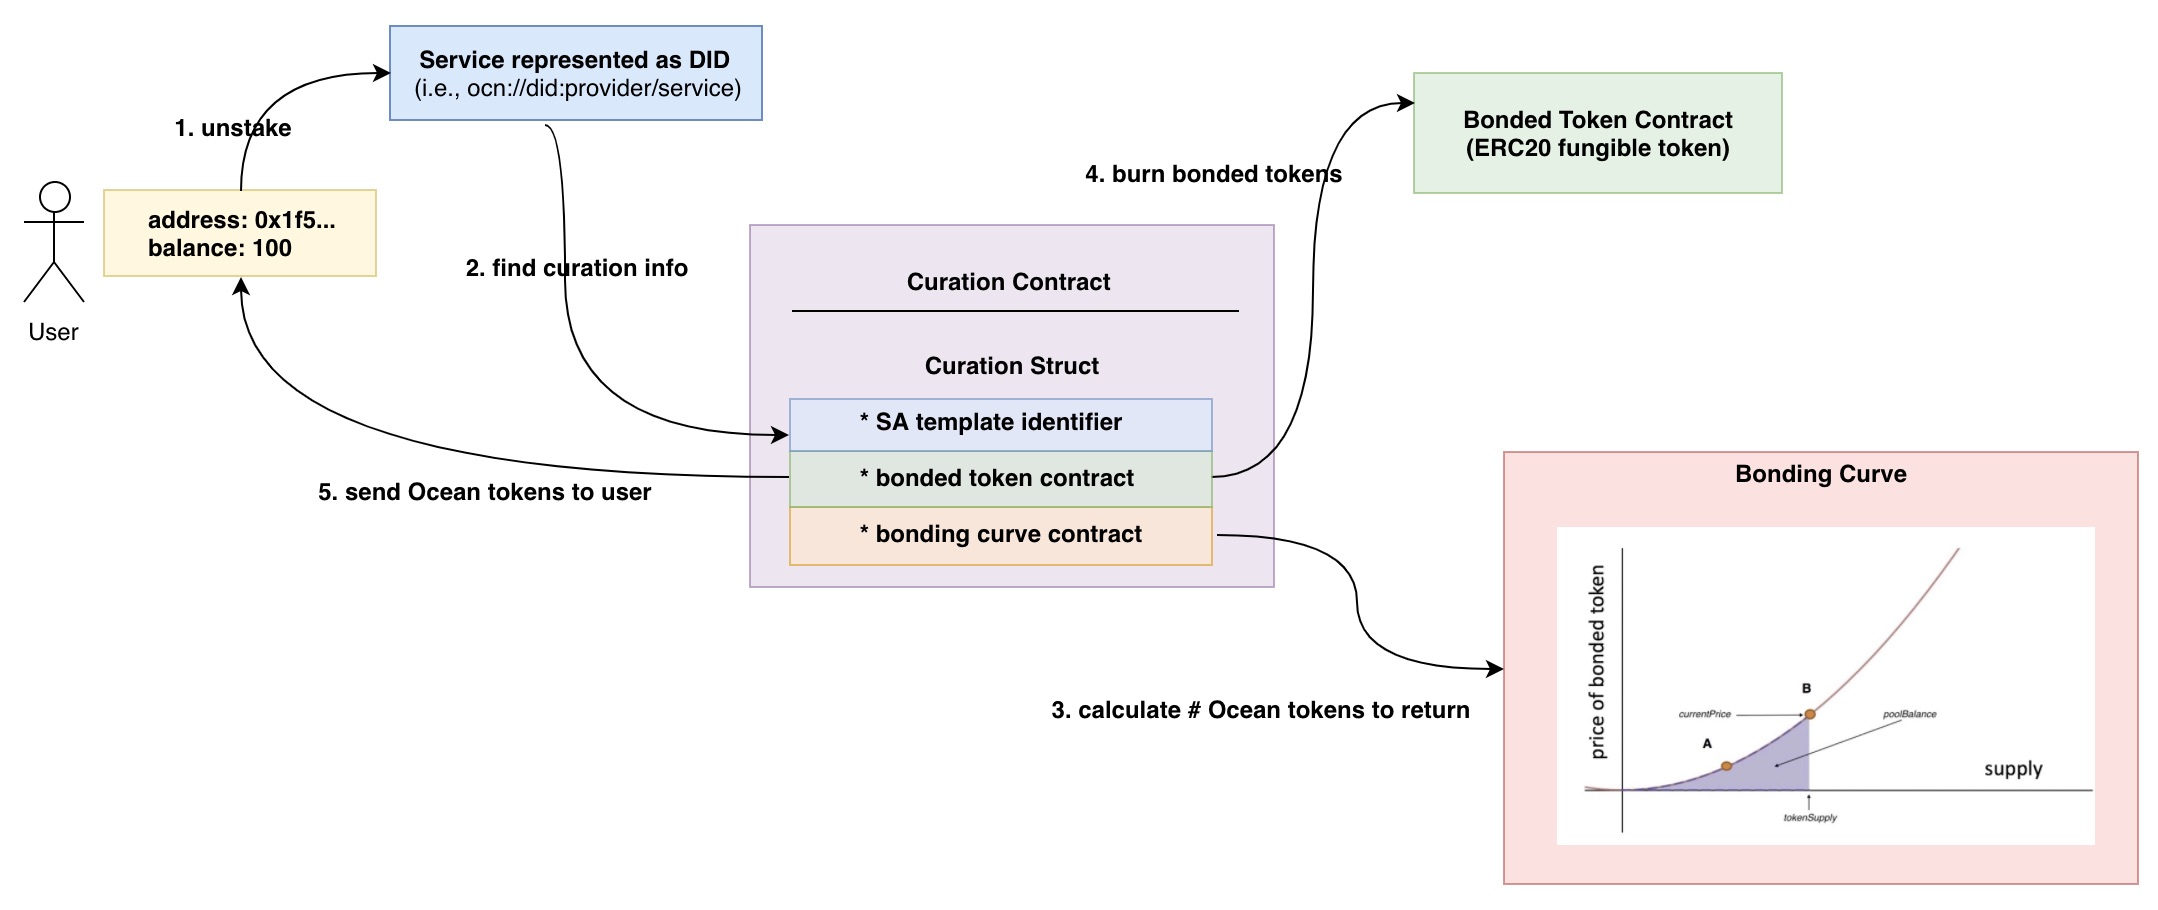
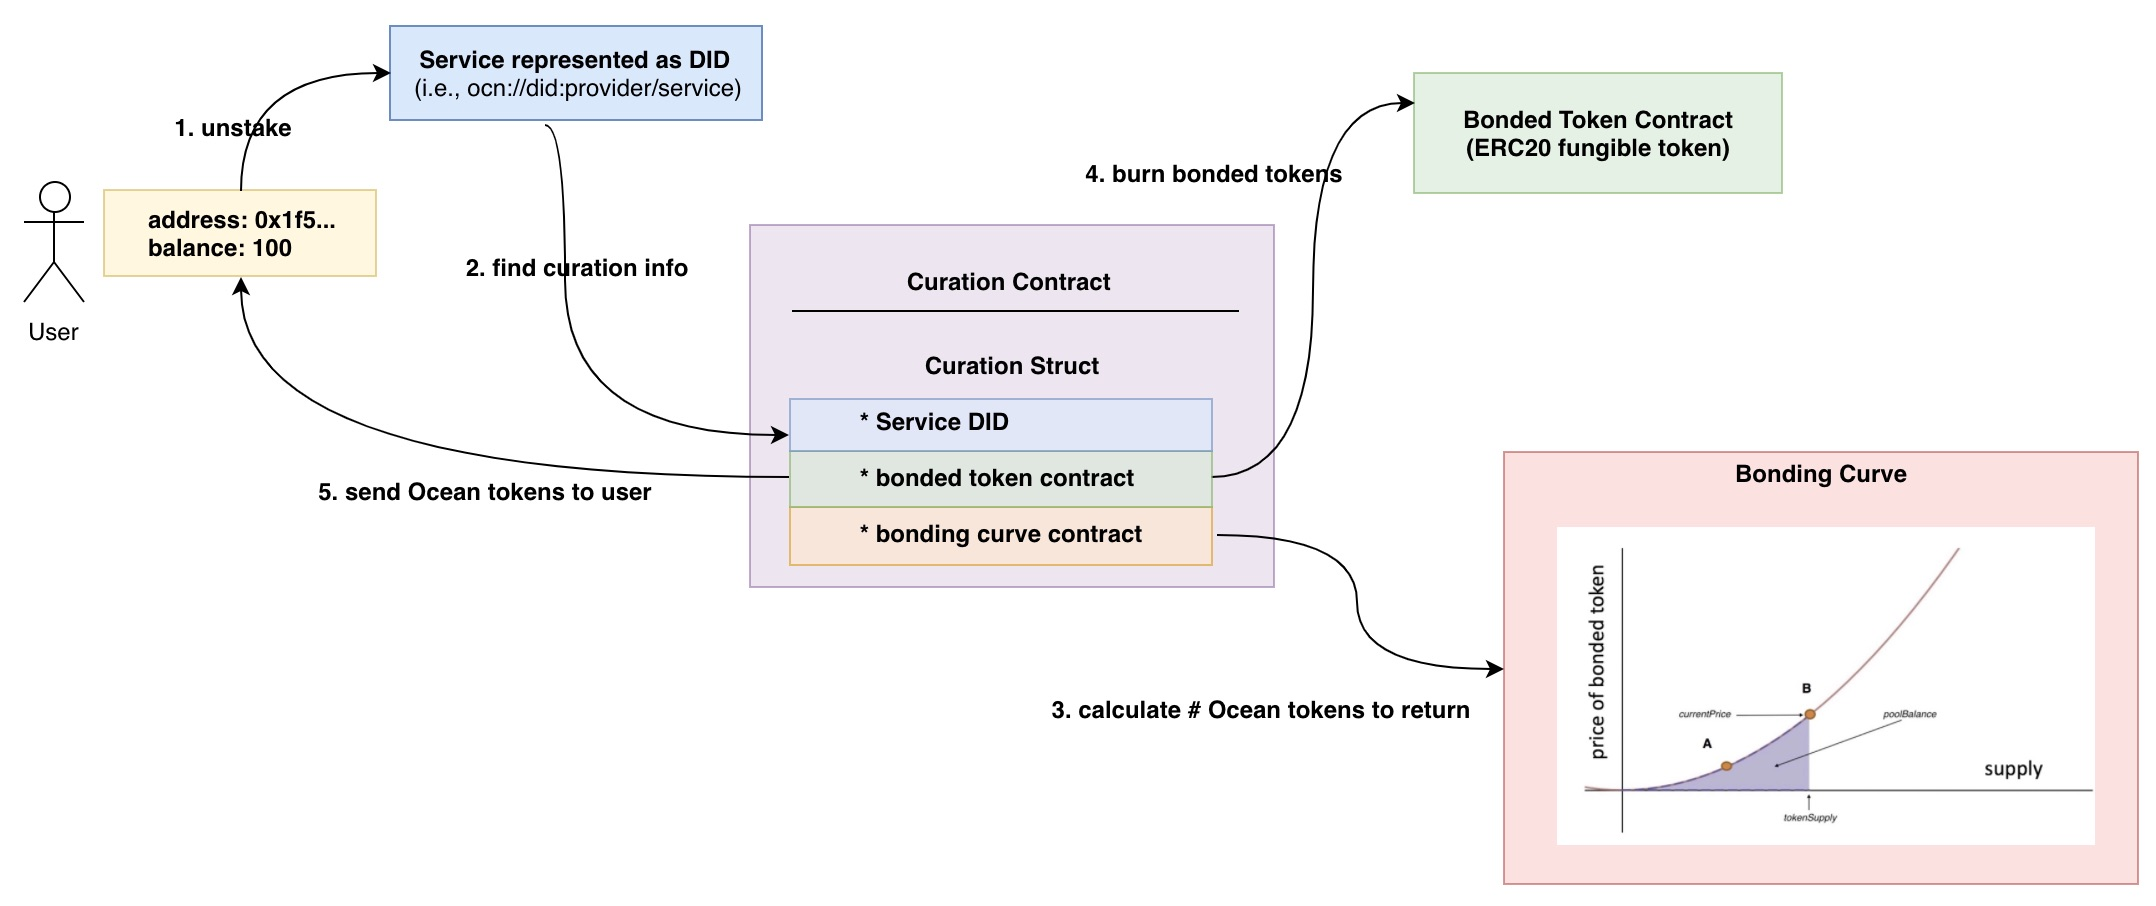
update network reward & group module

diff --git a/doc/refactoring_design.md b/doc/refactoring_design.md
@@ -140,6 +140,12 @@ Below diagram shows how to calculate the number of lottery tickets based on serv
 
 <img src="img/refactoring/distributeBR.jpg" width="800" />
 
+Key component is the conversion table that converts service conditions into a specific amount of lottery tickets. 
+
+Below is a first-cut design, where it calculates the `logarithm` of stake amount and time period to avoid impact of huge amount of stake. Otherwise, big whales can stake huge amount of stakes to have extremely high probability of winning network rewards.
+
+<img src="img/refactoring/rewardConversion.jpg" width="800" />
+
 #### 2.2.2 Sample Code
 
 The sample smart contract looks like this:
@@ -324,68 +330,70 @@ function grantAccess(bytes32 serviceId, bytes32 assetId) public returns (bool);
 
 ----
 
-### 2.6 Tribe or Group
+### 2.6 Group
 
-#### 2.6.1 Definition
+#### 2.6.1 User Permission
 
-Each service is represented by an unique DID and has three registries:
+Group module includes user's permission (i.e., membership, provider, consumer) for each service, which is represented by an unique DID:
 
-* *open registry*: users have credentials in this registry are the members for this service and they can further become provider or consumer for this service;
-* *provider registry* users have credentials in this registry can fulfill the service agreement;
-* *consumer registry* users have credentials in this registry can consume the service agreement;
+* *member*: users is a member for this service and they can further become provider or consumer with required credentials;
+* *provider* users can be a provider to fulfill the service;
+* *consumer* users can be a consumer to consume the service;
 
-<img src="img/refactoring/tribe.jpg" width="1000" />
+As such, Group module provides a query function to return whether a specific user has the permission to be a provider or consumer of the given service.
 
-**How to add member into Provider registry?**
+<img src="img/refactoring/userpermission.jpg" width="600" />
 
-* owner of service agreement template is a provider of the service agreement by default;
-* other members in the tribe shall be whitelisted through TCR in order to fulfill the service agreement.
+**How to become provider?**
 
-**How to add member into Consumer registry?**
+* publisher of service is a provider of the service by default;
+* user can be whitelisted through TCR to become a provider;
+* or other credentials as needed.
 
-* pre-vetted users by the owner of datasets;
-* consumers who makes payment for the service agreement;
-* all members have access to data commons.
+**How to become consumer?**
 
-**How to choose Provider for SA?**:
+* pre-vetted users by the owner of dataset or publisher of service;
+* consumers who have special credentials or satisfy requirements;
 
-* *data commons*: Ocean network randomly choose a provider to fulfill the service agreement request of data commons;
-* *priced data*: Consumer chooses the provider to fulfill his service agreement request.
+#### 2.6.2 Provider List for Service
+
+It is required to retrieve the provider list for a specific service in two cases:
+
+1. *data commons*: Ocean network has to randomly choose a provider from the `provider list` to fulfill the service request of data commons;
+2. *priced data*: Consumer chooses a provider from the `provider list` to fulfill his service request.
+
+The provider list for each service can be stored in Ocean DB off-chain and updated whenever a provider is added or removed. 
+
+Or, it can be built in On-Chain Group module as:
+<img src="img/refactoring/providerlist.jpg" width="600" />
 
 #### 2.6.2 Sample Code
 
 ```Solidity
-struct Tribe{
-   // open registry of membership
-	mapping(address => bool) private members;
-	
-	// TCR based registry for provider permission: who can provide service
-	mapping(address => bool) private providers;
-	
-	 // TCR based registry for consumer permission: who can consume service
-	mapping(address => bool) private consumers;
-}
+// each service (DID) has its permission hashmap (service DID -> permission byte)
+// last 3 bits of permission byte represent status of member, provider, consumer of user for given service
+mapping(address => mapping(bytes32 => byte)) private permission;
 
-// each SA template has its corresponding Tribe struct 
-mapping(bytes32 => Tribe) private tribes;
+// (Optional) each service (DID) has its corresponding provider list
+mapping(bytes32 => mapping(address => bool)) private providerList;
 
 // add new member to the tribe (similarly, there is function to remove a member)
-function addMember(bytes32 template_Id, address member) public returns (bool);
+function addMember(bytes32 DID, address member) public returns (bool);
 
-// add new provider to fulfill the SA (similarly, there is function to remove a provider)
-function addProvider(bytes32 template_Id, address provider) public returns (bool);
+// add new provider to fulfill the service (similarly, there is function to remove a provider)
+function addProvider(bytes32 DID, address provider) public returns (bool);
 
-// add new consumer to consume the SA (similarly, there is function to remove a consumer)
-function addConsumer(bytes32 template_Id, address consumer) public returns (bool);
+// add new consumer to consume the service (similarly, there is function to remove a consumer)
+function addConsumer(bytes32 DID, address consumer) public returns (bool);
 ```
 
 #### 2.6.3 Task & Issue
 
-- [ ] add data structures of permission registries for membership, provider and consumer;
-- [ ] user needs to go through TCR to be added into provider registry;
-- [ ] user needs to make payment or pre-vetted to be added into consumer registry;
-- [ ] members in the tribe have access to data commons; there is no need to have consumer registry;
-- [ ] add functions to remove user from provider registry or consumer registry;
+- [ ] add data structures of user permission;
+- [ ] user needs to go through TCR to become a provider;
+- [ ] user needs to make payment or pre-vetted to become a consumer;
+- [ ] data commons can be accessed by any user;
+- [ ] add functions to disable user's permission;
 
 ----
 
